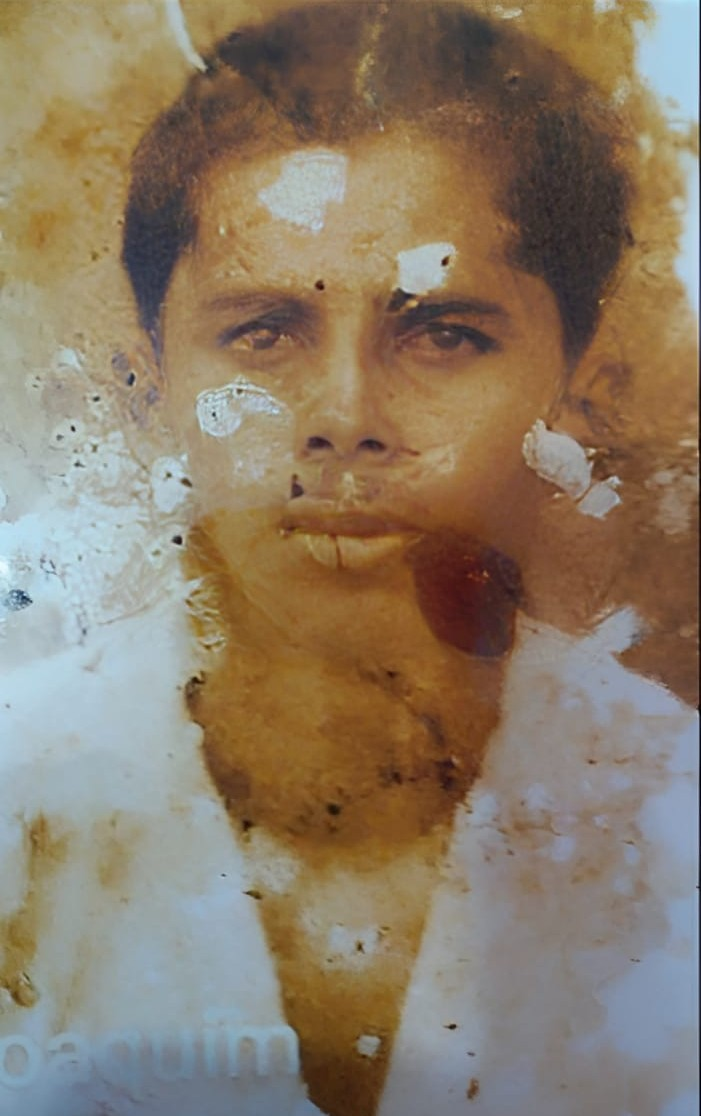
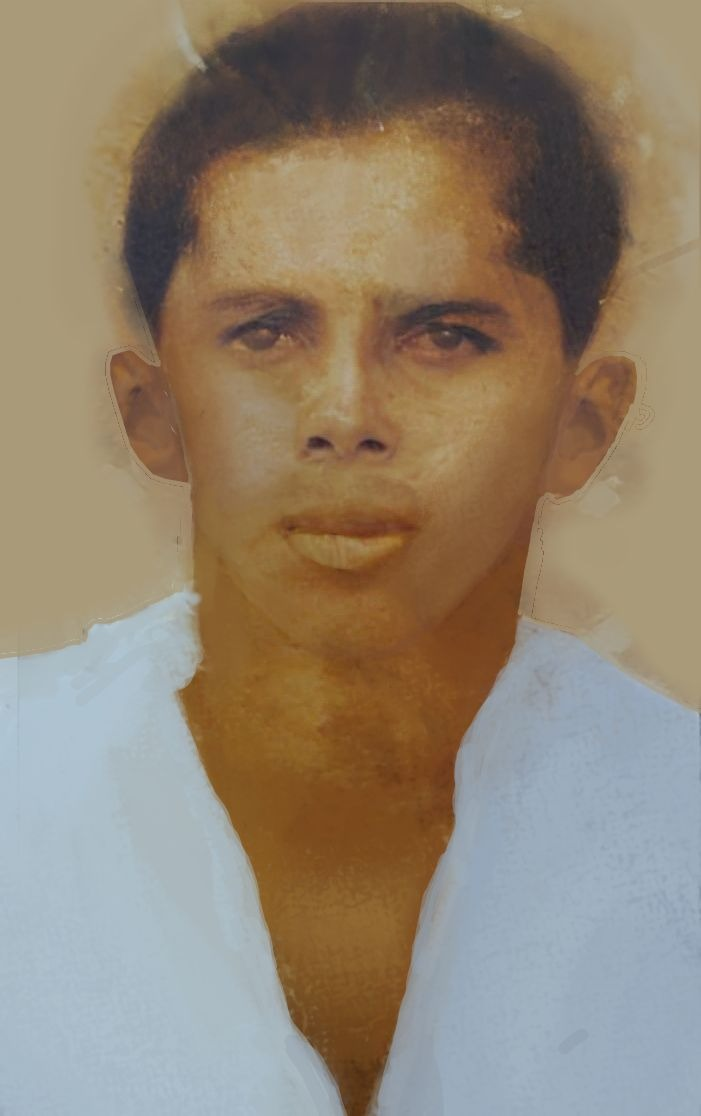
add images

diff --git a/cap6c.html b/cap6c.html
@@ -48,8 +48,8 @@
 
 <!-- BLOCO DE IMAGEM NO MEIO DO TEXTO -->
   <div class="imagem-texto">
-    <img src="img/capitulo6c/ANA DA SILVA BENTES NIKITA.JPG" alt="Família Nascimento & Vale">
-    <span>Ana da Silva Bentess</span>
+    <img src="img/capitulo6c/Ana da Silva Bentes (Nikita).png" alt="Família Nascimento & Vale">
+    <span>Ana da Silva Bentes</span>
   </div>
 
   <p>
@@ -75,6 +75,12 @@ Edificar é mais do que construir paredes — é formar pessoas.
 “Melhor é o pouco com justiça do que grandes rendimentos sem retidão.”
 O caráter pesa mais que a abundância.
   </p>
+
+  <!-- BLOCO DE IMAGEM NO MEIO DO TEXTO -->
+  <div class="imagem-texto">
+    <img src="img/capitulo6c/Maria Baixo da Silva.jpeg" alt="Família Nascimento & Vale">
+    <span>Maria Baixo da Silva</span>
+  </div>
 
   <p>
     No seio familiar, Ana não caminhou sozinha. Teve como irmãos
@@ -202,11 +208,15 @@ mas quem formou.
     <button onclick="slide(-1)">❮</button>
     <div class="slide">
       <img src="img/capitulo6c/ana e raimunda bentes.jpeg">
-      <span>Ana e Raimunda</span>
+      <span>Ana da Silva Bentes e Raimunda Maria em seu colo</span>
       <img src="img/capitulo6c/MARIA BAIXO.jpeg">
-      <span>Maria Baixo à esquerda</span>
+      <span>Maria Baixo da Silva à esquerda, mãe de Ana da Silva Bentes</span>
       <img src="img/capitulo6c/Raimunda Maria e sua mãe Ana restaurada.png">
-      <span>Raimunda Maria e sua mãe Ana</span>
+      <span>Raimunda Maria e sua mãe Ana da Silva Bentes</span>
+      <img src="img/capitulo6c/laurelindo e raimunda bentes.jpeg">
+      <span>Laurelindo e Raimunda, filhos de Ana da Silva Bentes</span>
+      <img src="img/capitulo6c/Ana da Silva Bentes.jpeg">
+      <span>Ana da Silva Bentes</span>
     </div>
     <button onclick="slide(1)">❯</button>
   </div>
